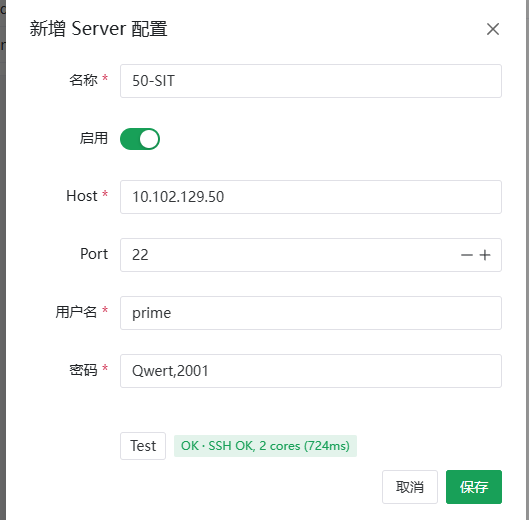
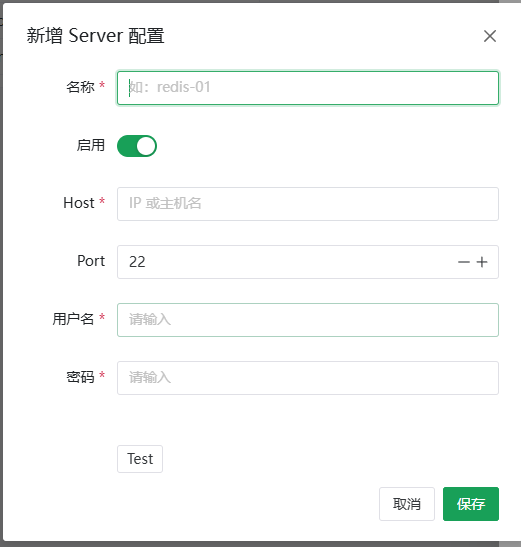
fix(resource-modal): redis test type bug, test row into form, name/host selects
- BUG: test button for redis sent type 'red' (replace(/s$/) stripped the
  trailing s) — replaced with explicit TEST_TYPE map (server/redis/mq/robot)
- Test row moved from footer into the form (right after the last field,
  aligned at the 90px label indent) — no more dangling button far below
- redis/mq/robot name field: filterable+tag select with candidates from
  the site's Server names (free input still allowed)
- robot base_url: candidates prefilled as http://<server-host>:19030
  (live robot port), free input unchanged
- drawer now loads both host and name candidates in one call

diff --git a/frontend/src/modules/sites/ResourceEditModal.vue b/frontend/src/modules/sites/ResourceEditModal.vue
@@ -20,8 +20,10 @@ export interface EditTarget {
   type: 'servers' | 'redis' | 'mq' | 'robots'
   /** 编辑时的初始值（新增时传 {}） */
   item: Record<string, any>
-  /** host 下拉候选（redis/mq 用） */
+  /** host 下拉候选（redis/mq/robots 用） */
   hostOptions: Array<{ label: string; value: string }>
+  /** 名称下拉候选（redis/mq/robots 用，来自同站点 Server 的名称） */
+  nameOptions: Array<{ label: string; value: string }>
   /** 资源所属站点（保存与测试请求的目标） */
   siteId: string
 }
@@ -32,6 +34,14 @@ const emit = defineEmits<{
   (e: 'saved'): void
 }>()
 
+/** 连接测试类型：不能用 replace(/s$/) —— redis 结尾的 s 会被误删成 "red" */
+const TEST_TYPE: Record<string, string> = {
+  servers: 'server',
+  redis: 'redis',
+  mq: 'mq',
+  robots: 'robot',
+}
+
 const TYPES: Record<string, string> = {
   servers: 'Server',
   redis: 'Redis',
@@ -41,7 +51,7 @@ const TYPES: Record<string, string> = {
 
 const FIELD_DEFS: Record<
   string,
-  Array<{ key: string; label: string; kind?: 'number' | 'host-input' | 'host-select'; ph?: string; required?: boolean }>
+  Array<{ key: string; label: string; kind?: 'number' | 'host-input' | 'host-select' | 'name-select' | 'base-url-select'; ph?: string; required?: boolean }>
 > = {
   servers: [
     { key: 'host', label: 'Host', kind: 'host-input', required: true },
@@ -50,18 +60,23 @@ const FIELD_DEFS: Record<
     { key: 'password', label: '密码', required: true },
   ],
   redis: [
+    { key: 'name', label: '名称', kind: 'name-select', required: true },
     { key: 'host', label: 'Host', kind: 'host-select', required: true },
     { key: 'port', label: 'Port', kind: 'number' },
     { key: 'username', label: '用户名' },
     { key: 'password', label: '密码' },
   ],
   mq: [
+    { key: 'name', label: '名称', kind: 'name-select', required: true },
     { key: 'host', label: 'Host', kind: 'host-select', required: true },
     { key: 'port', label: 'Port', kind: 'number', ph: 'Jolokia HTTP 端口，默认 8161' },
     { key: 'username', label: '用户名' },
     { key: 'password', label: '密码' },
   ],
-  robots: [{ key: 'base_url', label: 'Base URL', required: true }],
+  robots: [
+    { key: 'name', label: '名称', kind: 'name-select', required: true },
+    { key: 'base_url', label: 'Base URL', kind: 'base-url-select', required: true },
+  ],
 }
 
 const CREATE_DEFAULTS: Record<string, Record<string, unknown>> = {
@@ -157,6 +172,24 @@ async function save() {
           style="width: 100%"
           :placeholder="f.ph"
         />
+        <n-select
+          v-else-if="f.kind === 'name-select'"
+          v-model:value="form[f.key]"
+          filterable
+          tag
+          default-first-option
+          :options="props.target?.nameOptions ?? []"
+          :placeholder="(props.target?.nameOptions ?? []).length ? '选择已有 Server 的名称或直接输入' : '输入名称'"
+        />
+        <n-select
+          v-else-if="f.kind === 'base-url-select'"
+          v-model:value="form[f.key]"
+          filterable
+          tag
+          default-first-option
+          :options="(props.target?.hostOptions ?? []).map((h) => ({ label: `http://${h.value}:19030`, value: `http://${h.value}:19030` }))"
+          placeholder="选择 Server 主机生成的地址或输入完整 URL"
+        />
         <n-input v-else-if="f.kind === 'host-input'" v-model:value="form[f.key]"
           placeholder="IP 或主机名" />
         <n-select
@@ -170,15 +203,17 @@ async function save() {
         />
         <n-input v-else v-model:value="form[f.key]" />
       </n-form-item>
-    </n-form>
-    <template #footer>
-      <div class="footer">
-        <div class="footer-test">
-          <resource-test-button :type="props.target?.type?.replace(/s$/, '') ?? 'server'" :config="form" />
+      <n-form-item label=" ">
+        <div class="form-test">
+          <resource-test-button :type="TEST_TYPE[props.target?.type ?? 'servers'] ?? 'server'" :config="form" />
           <span v-if="props.target?.type === 'mq'" class="hint">
             平台经 Jolokia HTTP(8161) 读取管理数据
           </span>
         </div>
+      </n-form-item>
+    </n-form>
+    <template #footer>
+      <div class="footer">
         <n-space justify="end" :size="8">
           <n-button @click="emit('update:show', false)">取消</n-button>
           <n-button type="primary" :loading="saving" @click="save">保存</n-button>
@@ -191,12 +226,9 @@ async function save() {
 <style scoped>
 .footer {
   display: flex;
-  flex-direction: column;
-  gap: 14px;
-  margin-top: 6px;
+  justify-content: flex-end;
 }
-.footer-test {
-  padding-left: 90px;
+.form-test {
   display: flex;
   align-items: center;
   gap: 12px;

diff --git a/frontend/src/modules/sites/SiteResourcesDrawer.vue b/frontend/src/modules/sites/SiteResourcesDrawer.vue
@@ -69,6 +69,7 @@ const editTarget = ref<{
   type: ResourceType
   item: Record<string, any>
   hostOptions: Array<{ label: string; value: string }>
+  nameOptions: Array<{ label: string; value: string }>
   siteId: string
 } | null>(null)
 
@@ -85,16 +86,20 @@ async function load() {
   }
 }
 
-async function loadHostOptions(): Promise<Array<{ label: string; value: string }>> {
-  if (!siteId.value) return []
+/** 同站点 Server 候选（host / 名称），供 redis/mq/robots 快速选择 */
+async function loadServerOptions(): Promise<{
+  hostOptions: Array<{ label: string; value: string }>
+  nameOptions: Array<{ label: string; value: string }>
+}> {
+  if (!siteId.value) return { hostOptions: [], nameOptions: [] }
   try {
     const servers = await sitesApi.listResources(siteId.value, 'servers')
-    return [...new Set(servers.map((s) => String(s.host)))].map((h) => ({
-      label: h,
-      value: h,
-    }))
+    return {
+      hostOptions: [...new Set(servers.map((x) => String(x.host)))].map((h) => ({ label: h, value: h })),
+      nameOptions: [...new Set(servers.map((x) => String(x.name)))].map((n) => ({ label: n, value: n })),
+    }
   } catch {
-    return []
+    return { hostOptions: [], nameOptions: [] }
   }
 }
 
@@ -105,26 +110,30 @@ watch(
 )
 
 async function openCreate() {
-  const hostOptions = activeType.value !== 'robots' ? await loadHostOptions() : []
+  const { hostOptions, nameOptions } = activeType.value !== 'servers'
+    ? await loadServerOptions()
+    : { hostOptions: [], nameOptions: [] }
   editTarget.value = {
     id: null,
     type: activeType.value,
     item: {},
     hostOptions,
+    nameOptions,
     siteId: siteId.value,
   }
   editShow.value = true
 }
 
 async function openEdit(item: ResourceConfig) {
-  const hostOptions = activeType.value === 'redis' || activeType.value === 'mq'
-    ? await loadHostOptions()
-    : []
+  const { hostOptions, nameOptions } = activeType.value !== 'servers'
+    ? await loadServerOptions()
+    : { hostOptions: [], nameOptions: [] }
   editTarget.value = {
     id: item.id,
     type: activeType.value,
     item: { ...item },
     hostOptions,
+    nameOptions,
     siteId: siteId.value,
   }
   editShow.value = true
